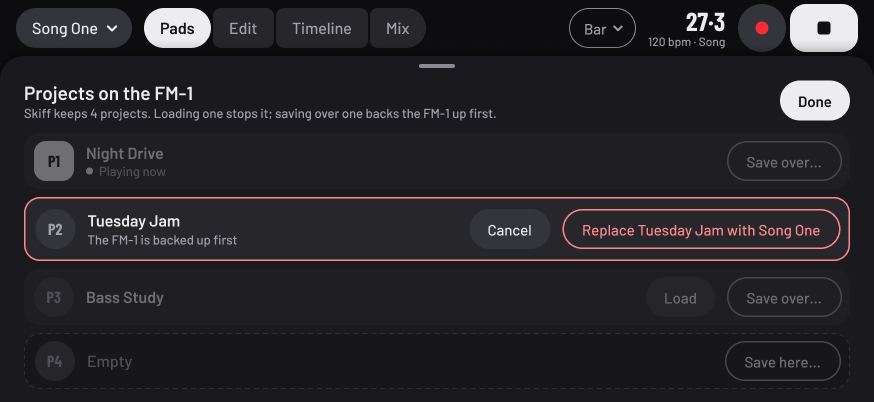
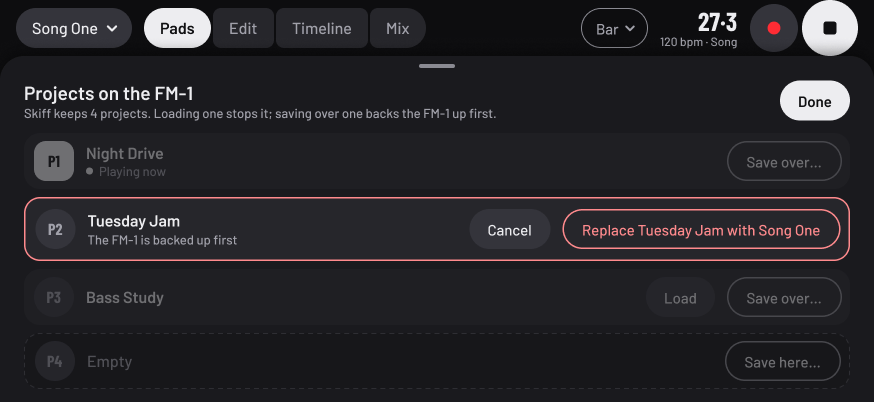
design: hybrid UI — Scott's five calls (pill tabs and Bar, round 56 Play/Stop, Mix pan/send by long press, Follow-gated paging)
Spec §7 now records the decisions; phone-header.md, mix.md and
pattern-editor.md decision logs updated; screens re-exported with the
round transport, plus 06b (the Mix strip's hold menu).

Changed region(s): [[0.6487, 0.0, 0.9886, 0.1493], [0.9577, 0.0896, 0.9886, 0.1194]]

diff --git a/design/hybrid-ui/spec.md b/design/hybrid-ui/spec.md
@@ -153,11 +153,11 @@ Frame references: `screens/`. Positions are drawn on an 874 × 402 phone frame; 
 
 ### 4.1 Phone header (every phone screen)
 
-56 tall, 16 each side, 12 between. From the left: **Song menu** (40 pill `lifted`, name and ⌄), **tabs Pads · Edit · Timeline · Mix** (connected group, 3.4), *flexible space*, **Bar ⌄** (40 pill, 1 pt `primaryEdge`, opens the Launch at menu), **readout** (right-aligned: "27·3" and "120 bpm · Song"; tap opens the tempo popup), **Record** (48 round `lifted`, `rec` dot 22), **Stop or Play** (68 × 48, radius 16, `text`, the largest key, flush to the right margin).
+56 tall, 16 each side, 12 between. From the left: **Song menu** (40 pill `lifted`, name and ⌄), **tabs Pads · Edit · Timeline · Mix** (connected group, 3.4), *flexible space*, **Bar ⌄** (40 pill, 1 pt `primaryEdge`, opens the Launch at menu), **readout** (right-aligned: "27·3" and "120 bpm · Song"; tap opens the tempo popup), **Record** (48 round `lifted`, `rec` dot 22), **Play/Stop** (**56 round**, `text`, icon 26 in `onColour`: the largest key, flush to the right margin). Round as decision 23; larger so size carries the priority (Scott, 2026-11-17).
 
 > The space between the tabs and Bar has to grow (`FILL` / `Spacer()` / `weight(1f)`). A mock bug left about 150 pt empty right of the transport (fixed 2026-11-17). The transport sits flush right.
 
-**Narrow widths** (iPhone inside its safe areas, about 734 wide): the row as drawn needs about 772. Give way in this order, never touching the tabs, Record or Stop: (1) the Song menu's name truncates to 96 with an ellipsis; (2) the Bar key drops its outline and shows "Bar ⌄" as a word (decision 29's form); (3) the readout's second line goes, with its words moving to the tempo popup's header. `[open]` whether the tabs may shrink their padding from 16 to 12 before step 1.
+**Narrow widths** (iPhone inside its safe areas, about 734 wide): the row as drawn needs about 760. Tabs and Bar stay pills (Scott, 2026-11-17). Give way in this order, never dropping a tab, Record or Play/Stop: (1) the Song menu's name truncates to 96 with an ellipsis; (2) tab padding goes from 16 to 12 a side; (3) the readout's second line moves into the tempo popup's header; (4) the Bar pill tightens to 12/6. Steps 1–2 alone win about 60.
 
 ### 4.2 Pads (`phone-03-pads`)
 
@@ -165,12 +165,12 @@ Six rows of 43 with 4 between: head (118), Mute (56), then 8 pads filling the wi
 
 ### 4.3 Edit · 8-step pages (`phone-01`, decided)
 
-- **Pattern bar** (44): badge, "Acid · Pattern A 01" over "Chromatic · 16 steps", then Step ⌄ (Tonal at radius 12) and Velocity (outline toggle) at the right. It spans the width left of the panel.
+- **Pattern bar** (44): badge, "Acid · Pattern A 01" over "Chromatic · 16 steps", then Step ⌄ (Tonal at radius 12), Velocity (outline toggle) and **Follow** (toggle; on = white key) at the right. It spans the width left of the panel.
 - **Grid:** piano edge 40 wide (white keys `text` with the note name, black keys `lifted`, radius 8), then a `well` grid at radius 18 holding **8 steps at about 65 each** and all 7 rows. Odd beats sit on `panel` bands, row lines are `disabledOutline` at 50 %, the playhead is `text` at 12 % with a 4-pt cap, and notes are pills in track colour with two length marks.
 - **Minimap** (3.14) under the grid.
 - **Sound panel** docked right at 280 wide, from the header's foot to 8 above the bottom: `panel`, left corners `radius.sheet`, 14/12 inside. Page title (ENV, "1 of 2") and a connected pager. Four tiles in 2 × 2 (60 tall), then the envelope on `well`.
 - **Panel closed** (`phone-02`): the same grid shows all 16 steps at the full width, which is what's built today.
-- **Paging is by hand:** a tap on the minimap's other half, or a horizontal swipe on the grid. This follows the editor's decision of 2026-11-01, "no paging with the playhead". While the playhead is on the other page, the minimap shows it as a moving cell highlight. The reference render `motion/edit-8-step-page-flip.mp4` flips with the playhead to show the transition itself; that following is **not** the behaviour (see 7, conflict 5).
+- **Paging:** with **Follow on**, the page turns with the playhead (to 9–16 at step 9, back at step 1), as `motion/edit-8-step-page-flip.mp4` shows. With Follow off, paging is by hand: a tap on the minimap's other half or a horizontal swipe, and the minimap shows where the playhead is as a moving cell highlight (Scott, 2026-11-17; amends the 2026-11-01 "no paging with the playhead" for 8-step pages only).
 
 ### 4.4 Timeline (`phone-05`)
 
@@ -178,7 +178,7 @@ Zoom (− +, connected, 50 × 40), then the ruler. Track heads are 104 pills (ba
 
 ### 4.5 Mix tab (`phone-06`, decided)
 
-Sub-pages Mixer · Delay · Reverb · Chorus · Global as a quiet segmented row (selected `lifted` pill, 36). Six strips fill the width (about 135 each on 874): `panel` at radius 20, and the selected strip gets the track tint and a 2 pt edge. Each strip holds a badge and name, the fader with its meter, dB, Mute/Solo connected (labelled), and the reverb send. The Global pages are grey (decision 34). The Mix pop-up and its sheet go.
+Sub-pages Mixer · Delay · Reverb · Chorus · Global as a quiet segmented row (selected `lifted` pill, 36). Six strips fill the width (about 135 each on 874): `panel` at radius 20, and the selected strip gets the track tint and a 2 pt edge. Each strip holds a badge and name, the fader with its meter (taller now), dB, **a values line "C · Rev 12%"** (Medium 12 `textSecondary`), and Mute/Solo connected (labelled). **Pan and the reverb send live in the strip's long-press menu** (`phone-06b`): a `held` menu at the finger with the track's badge and name, a centred Pan slider, a Reverb send slider, a divider, then Select sound…. State stays visible on the strip and the controls are a hold away (Scott, 2026-11-17: "you can longpress most things in the app for more options"). VoiceOver: Pan and Reverb send as adjustable actions on the strip, so they don't depend on the long press. The Global pages are grey (decision 34). The Mix pop-up and its sheet go.
 
 ### 4.6 Sheets and popups
 
@@ -256,18 +256,21 @@ Exits are quicker than entrances, and nothing reaches 500 ms (`DESIGN.md`). Refe
 
 ---
 
-## 7. Conflicts and open questions (Scott decides)
+## 7. Decisions (Scott, 2026-11-17) and what's still open
 
-**Conflicts with built decisions:**
-1. **Tabs:** connected pill tabs vs decision 29's word tabs with a gliding underline and the track thread. The pill puts the selection in a shape (mechanism 1). The underline is built on Android.
-2. **Transport:** Stop and Play as a 68 × 48 rounded rectangle, the largest key, vs decision 23's round Record and Play.
-3. **Launch timing:** "Bar ⌄" as an outlined pill vs decision 29's word with ⌄ (the narrow-width rule falls back to the word anyway).
-4. **Mix row content:** the pop-up's `[open]` lines in `mix.md` (level and send only, or pan too) carry over to the tab's strips. As drawn, each strip has level, Mute/Solo and send, and pan isn't drawn.
-5. **Edit paging and the playhead:** the editor's 2026-11-01 decision is "no paging with the playhead", so 8-step pages page by hand. With only half the pattern in view, should the page follow the playhead while playing (with Follow on, say)? Until Scott says so, it doesn't.
+The five conflicts this spec raised, settled:
 
-**Open:**
-- Whether the playhead's 60 ms glide counts as "travel" under Reduce Motion, or jumps.
+| # | Question | Decision | Effect on built decisions |
+|---|---|---|---|
+| 1 | Tabs: pills or words | **Pills**, as drawn (connected group, the selected tab a white pill) | Replaces decision 29's word tabs with the gliding underline; the track thread needs a new home or goes |
+| 2 | Transport | **Round**, Record 48 and Play/Stop **56** | Keeps decision 23's shape; Play/Stop grows |
+| 3 | Launch timing | **Pill** ("Bar ⌄", outlined) | Replaces decision 29's word form |
+| 4 | Pan and send on the Mix strip | **In the strip's long-press menu**; the strip shows their values | Answers `mix.md`'s level-and-send `[open]` for the phone tab |
+| 5 | Edit paging and the playhead | **Follows only when Follow is on** | Amends the 2026-11-01 log for 8-step pages |
+
+**Still open:**
+- Where the track thread goes now the tabs are pills: drop it, or move it to the selected pill's edge?
+- Whether the playhead's 60 ms glide counts as travel under Reduce Motion, or jumps.
 - The slider's unfilled track at 1.33:1.
-- Tab padding at narrow widths (4.1).
-- The phone's Sounds: a sheet here (`phone-07`). The structure map's phone section (2026-11-10) still lists a Sounds tab. Five tabs don't fit; this proposal keeps Sounds as a sheet.
-- The arc wheel vs the straight menu: only a study call. The wheel stays the shipped design until Scott says otherwise.
+- The phone's Sounds: a sheet here (`phone-07`). The structure map's phone section (2026-11-10) still lists a Sounds tab.
+- The arc wheel vs the straight pad menu: a study call only. The wheel stays the shipped design until Scott says otherwise.

diff --git a/design/hybrid-ui/README.md b/design/hybrid-ui/README.md
@@ -11,10 +11,12 @@ It came out of one design session on 2026-11-17: an M3 Expressive study, then a 
 | Phone Edit with the sound panel docked uses **8-step pages** with a 16-cell minimap | **Decided** (Scott, 2026-11-17) | `design/components/pattern-editor.md` decision log; answers that file's `[open]` on board 75 |
 | **Mix returns as a phone tab** (Pads · Edit · Timeline · Mix); the Mix pop-up goes | **Decided** (Scott, 2026-11-17: "most people want it more accessible") | `design/components/mix.md` decision log; reverses decision 28 |
 | The hybrid look as a whole (shape-as-state pads, pill keys, connected tabs, sheet and menu styling, motion vocabulary) | **Proposal.** Scott hasn't approved it for the app | This folder |
-| Phone header as drawn here (connected pill tabs, rounded-square Stop) | **Proposal, conflicts with built decisions 29 and 23** (word tabs with a gliding underline, round Record and Play) | `spec.md` › Conflicts |
+| Phone header: **pill tabs and a Bar pill; round Record (48) and Play/Stop (56)** | **Decided** (Scott, 2026-11-17); replaces decision 29's word tabs and launch word, keeps decision 23's round keys | `design/components/phone-header.md` decision log |
+| Mix strip: **pan and reverb send in the strip's long-press menu**, values shown on the strip | **Decided** (Scott, 2026-11-17) | `design/components/mix.md` decision log |
+| 8-step Edit **follows the playhead only when Follow is on** | **Decided** (Scott, 2026-11-17) | `design/components/pattern-editor.md` decision log |
 | Structure changes (the phone's tabs) | **Needs the structure map agreed first** (repo `CLAUDE.md` rule 4) | `structure-map-proposal.md` |
 
-**Before building anything from this:** get Scott's OK on `structure-map-proposal.md` and on each Conflict in `spec.md`. Any line in a component's CRD marked `[open]` still means stop and ask.
+**Before building anything from this:** get Scott's OK on `structure-map-proposal.md`. The conflicts are settled (`spec.md` §7). Any line in a component's CRD marked `[open]` still means stop and ask.
 
 ## What's here
 
@@ -23,9 +25,9 @@ It came out of one design session on 2026-11-17: an M3 Expressive study, then a 
 | `spec.md` | The build spec: principles, token mapping, components with every state, screens with dimensions, the motion table, accessibility and contrast, conflicts and open questions |
 | `tokens-proposal.json` | Additions to `tokens/tokens.json`: radii, shape-state rules and motion starting values. Motion values go to **Labs first** (rule 3), not straight into tokens |
 | `structure-map-proposal.md` | The phone section of `design/structure-map.md` as it would read, for Scott to agree |
-| `screens/` | The final frames at 1x (phone 874 × 402, iPad 1376 × 1032): 14 phone, 4 iPad |
+| `screens/` | The final frames at 1x (phone 874 × 402, iPad 1376 × 1032): 15 phone (with `06b`, the Mix strip's hold menu), 4 iPad |
 | `components/` | The hybrid pad's states, buttons, the parameter tile and the switch |
-| `motion/` | 10 reference renders (MP4, 2x, 30 fps) for the transitions in the motion table |
+| `motion/` | 10 reference renders (MP4, 2x, 30 fps) for the transitions in the motion table. They were rendered before the 2026-11-17 decisions, so their headers show the older rounded-square Stop and some show three tabs. The motion itself is current |
 
 ## Figma
 

diff --git a/design/components/pattern-editor.md b/design/components/pattern-editor.md
@@ -183,7 +183,7 @@ Boards: 19–20 (the Song tab, `compose.py`), 32–34 (the three places), `steps
 Motion follows `DESIGN.md`. Particular to the editor:
 - Opening from shut, the editor comes up from the panel's foot on the panel's own spring, rising with the tint, never uncovered by it (Scott, 2026-11-09). The sampler's sideways swap runs only between the sampler and the editor.
 - The tab's carets take the track colour on its tint (Scott, 2026-11-09).
-- Phone Edit with the panel docked: **8-step pages** beside a 280-wide panel, with a 16-cell minimap under the grid that shows the other page's notes and pages on a tap. Paging stays by hand (2026-11-01 log); whether it follows the playhead is an open question in `design/hybrid-ui/spec.md` §7 (Scott, 2026-11-17; options drawn in the vault's `figma-ui-kit.md`, "Edit squeeze").
+- Phone Edit with the panel docked: **8-step pages** beside a 280-wide panel, with a 16-cell minimap under the grid that shows the other page's notes and pages on a tap. Pages follow the playhead when Follow is on, by hand otherwise (Scott, 2026-11-17; options drawn in the vault's `figma-ui-kit.md`, "Edit squeeze").
 - `[open]` The phone's piano edge: display only ("to show white and black keys", decision 31), or does a touch play the note as the iPad's row labels do?
 
 ### Decision log
@@ -195,6 +195,7 @@ Motion follows `DESIGN.md`. Particular to the editor:
 - 2026-11-13: decision 5, the FM-1's keys never write steps from the phone (Scott).
 - 2026-11-14: decision 31, the iPhone's step grid with a piano edge on both phones (Scott).
 - 2026-11-17: phone Edit with the sound panel docked shows 8 steps a page with a minimap, over a bottom panel (only 4 of 7 rows) or a slim panel (about 38 pt a step) (Scott, hybrid UI study).
+- 2026-11-17: the 8-step pages follow the playhead only when Follow is on (a Follow toggle joins the phone's pattern bar); by hand otherwise. Amends 2026-11-01 for 8-step pages (Scott).
 
 ## 3. Build notes
 

diff --git a/design/hybrid-ui/structure-map-proposal.md b/design/hybrid-ui/structure-map-proposal.md
@@ -16,11 +16,11 @@ For Scott to agree before any screen is built (repo `CLAUDE.md` rule 4). When ag
 | Tab | What's on it |
 |---|---|
 | **Pads** | The grid of every track's entries, row heads (badge, name, Mute), the scenes toolbar (Store and 16). Hold menus as today. |
-| **Edit** | The selected pad's pattern. Panel shut: all 16 steps. Panel docked (FX, SEL, ENV, LFO, EDIT, ARP): **8 steps a page** with the minimap. |
+| **Edit** | The selected pad's pattern. Panel shut: all 16 steps. Panel docked (FX, SEL, ENV, LFO, EDIT, ARP): **8 steps a page** with the minimap. Pages follow the playhead when Follow is on; otherwise by hand. |
 | **Timeline** | The song's lanes and blocks, zoom, the ruler. A refusal ("Stop to change the song") shows in the app strip. |
-| **Mix** | Six strips (level fader with meter, dB, Mute and Solo, reverb send), and the Global pages as sub-pages: Mixer · Delay · Reverb · Chorus · Global. |
+| **Mix** | Six strips (level fader with meter, dB, a pan · send values line, Mute and Solo); **pan and the reverb send in the strip's long-press menu**, with Select sound…. The Global pages as sub-pages: Mixer · Delay · Reverb · Chorus · Global. |
 
-**Header, one row:** Song menu, the four tabs, then flush right: Launch at (Bar ⌄), the readout (opens the tempo popup), Record, Stop or Play. At narrow widths, things give way in the order in `spec.md` 4.1; the tabs, Record and Play never go.
+**Header, one row:** Song menu, the four tabs (pills), then flush right: Launch at (Bar ⌄ pill), the readout (opens the tempo popup), Record (round 48), Play/Stop (round 56). At narrow widths, things give way in the order in `spec.md` 4.1; the tabs, Record and Play never go.
 
 **Over any tab:** the Sounds sheet, Projects, Settings, the Launch at menu and the tempo popup. Messages show in the app strip, bottom centre.
 

diff --git a/design/components/mix.md b/design/components/mix.md
@@ -139,6 +139,7 @@ Motion follows `DESIGN.md`. Particular to Mix: the strips move between one row a
 - 2026-11-14: phones get a pop-up, not a tab (decisions 28, 31); its pictures redrawn from the FM-1's, in greys (decision 34).
 - 2026-11-15: the iPad's Mix drops the effects row (GLO 2–5 are sound-panel pages, decision 44); the strips take the page, and stand in two rows of three while the sound panel is open (Scott, decision 48).
 - 2026-11-17: Mix comes back as a phone tab (Pads · Edit · Timeline · Mix); the pop-up goes. Scott: "I think most people want it more accessible." Reverses decision 28 for Mix (hybrid UI study; strips drawn in `design/hybrid-ui/`, the structure map still to be agreed).
+- 2026-11-17: on the phone's Mix tab, pan and the reverb send move into the strip's long-press menu, and the strip shows their values ("C · Rev 12%"), so the fader keeps the height. Scott: "There is already so much competing for vertical space. I sort of like the pattern of you can longpress most things in the app for more options."
 
 ## 3. Build notes
 

diff --git a/design/components/phone-header.md b/design/components/phone-header.md
@@ -160,6 +160,7 @@ Particular to the header:
 - 2026-11-14: launch timing beside the tempo; Play and Record in from the corner; tabs slide with the track's outline travelling (Scott, decision 29).
 - 2026-11-14: one header on both phones, Android's; the bar countdown goes (Scott, decision 31).
 - 2026-11-14: the song-name menu takes the iPhone's audio, demo and Developer items; the launch menu is the iPhone's with Cancel waiting (Scott, decision 33).
+- 2026-11-17: tabs Pads · Edit · Timeline · Mix as a connected pill group and launch timing as a "Bar ⌄" pill, over decision 29's underlined words; Record round 48 and Play/Stop round 56, the largest key, flush right (Scott, hybrid UI study; `design/hybrid-ui/spec.md` 4.1).
 
 ## 3. Build notes
 
